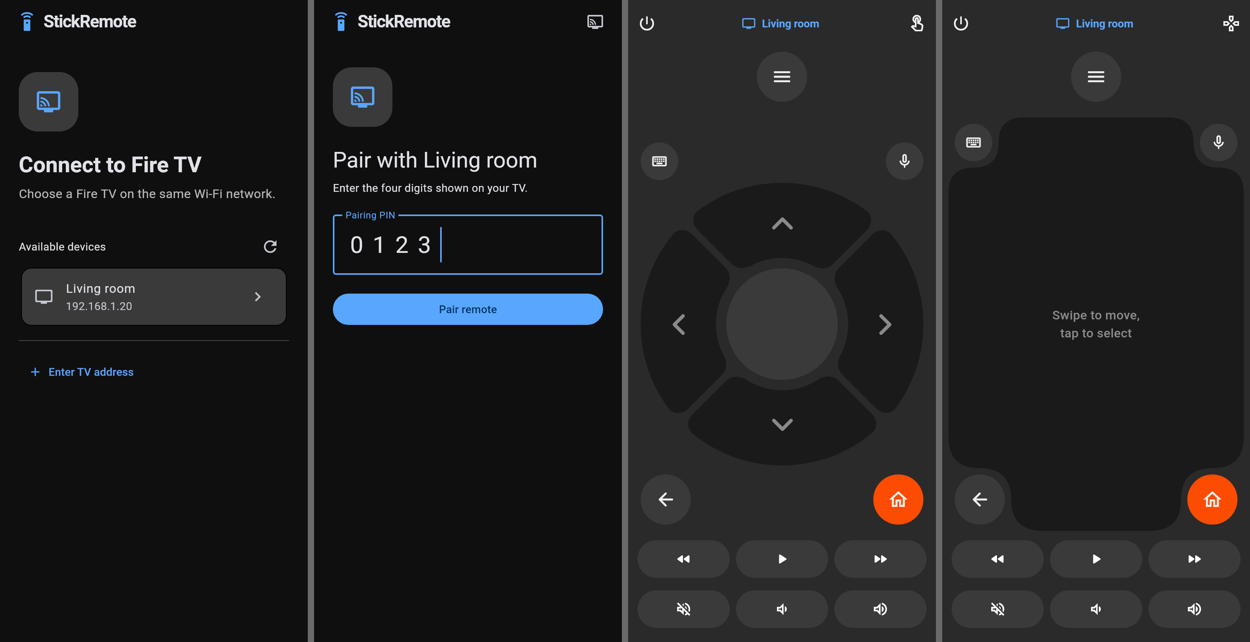
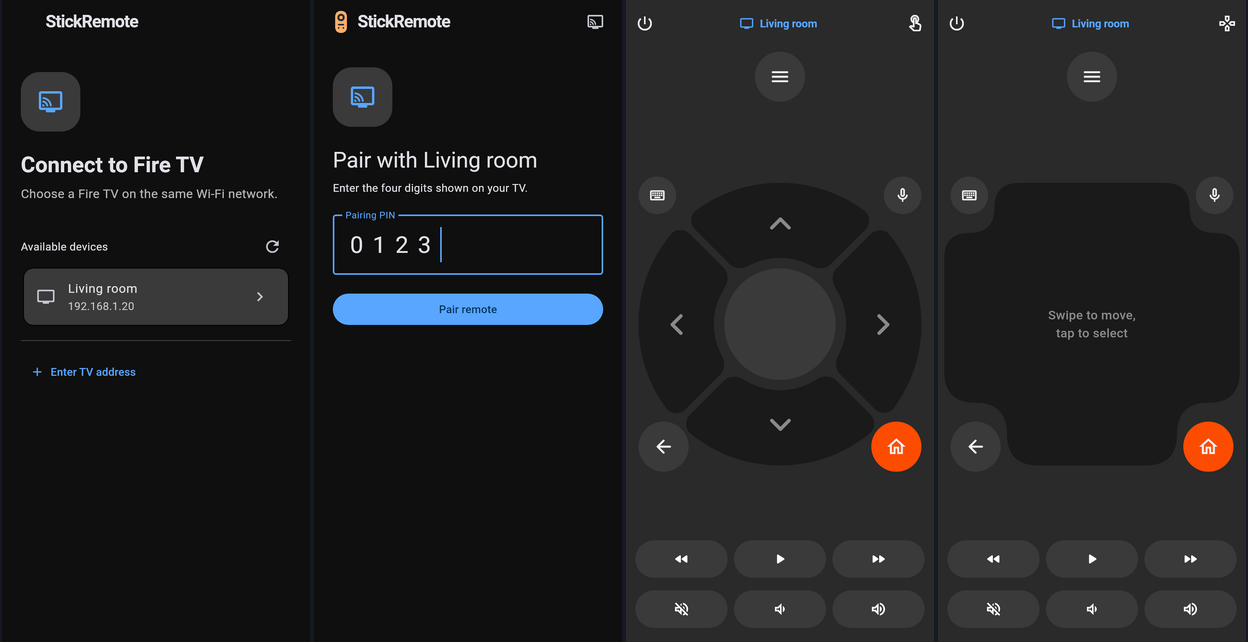
Fix repeat pairing prompts, align remote modes and brand Android release assets

diff --git a/lib/src/remote.dart b/lib/src/remote.dart
@@ -57,10 +57,8 @@ class _RemoteFaceState extends State<RemoteFace> with WidgetsBindingObserver {
         }
         _power = data['powerSupport'] != 'NotSupported';
       }
-    } on ReceiverError catch (error) {
-      if ([401, 403].contains(error.status)) _error(error);
     } on Exception {
-      // An unavailable properties API leaves volume support unknown.
+      // Some paired receivers deny this optional endpoint but accept commands.
     } finally {
       if (mounted) setState(() => _loadingCapabilities = false);
     }
@@ -350,7 +348,7 @@ class _RemoteFaceState extends State<RemoteFace> with WidgetsBindingObserver {
     );
   }
 
-  Widget _navigation(double size) {
+  Widget _navigation() {
     if (!_pad) {
       return Semantics(
         label: 'Touchpad. Swipe to move or tap to select.',
@@ -391,16 +389,11 @@ class _RemoteFaceState extends State<RemoteFace> with WidgetsBindingObserver {
         ),
       );
     }
-    return Center(
+    return FittedBox(
       child: SizedBox.square(
-        dimension: size,
-        child: FittedBox(
-          child: SizedBox.square(
-            dimension: 327,
-            child: Stack(
-              children: [for (final segment in padSegments) _segment(segment)],
-            ),
-          ),
+        dimension: 327,
+        child: Stack(
+          children: [for (final segment in padSegments) _segment(segment)],
         ),
       ),
     );
@@ -565,48 +558,56 @@ class _RemoteFaceState extends State<RemoteFace> with WidgetsBindingObserver {
               padding: const EdgeInsets.symmetric(horizontal: 8),
               child: SizedBox(
                 height: areaHeight,
-                child: Stack(
-                  fit: StackFit.expand,
-                  children: [
-                    _navigation(padSize),
-                    Positioned(
-                      left: 8,
-                      top: _pad ? 32 : 8,
-                      child: _round(
-                        'Keyboard',
-                        Icons.keyboard_outlined,
-                        _keyboard,
-                      ),
+                child: Center(
+                  child: SizedBox(
+                    width: double.infinity,
+                    height: math.min(areaHeight, padSize + 32),
+                    child: Stack(
+                      fit: StackFit.expand,
+                      children: [
+                        Center(
+                          child: SizedBox(
+                            width: double.infinity,
+                            height: padSize,
+                            child: _navigation(),
+                          ),
+                        ),
+                        Positioned(
+                          left: 8,
+                          top: 8,
+                          child: _round(
+                            'Keyboard',
+                            Icons.keyboard_outlined,
+                            _keyboard,
+                          ),
+                        ),
+                        Positioned(right: 8, top: 8, child: _microphone()),
+                        Positioned(
+                          left: 8,
+                          bottom: 8,
+                          child: _round(
+                            'Back',
+                            Icons.arrow_back_rounded,
+                            () => _send((tv) => tv.command('back')),
+                            size: 64,
+                            iconSize: 28,
+                          ),
+                        ),
+                        Positioned(
+                          right: 8,
+                          bottom: 8,
+                          child: _round(
+                            'Home',
+                            Icons.home_outlined,
+                            _home,
+                            size: 64,
+                            iconSize: 28,
+                            fill: homeOrange,
+                          ),
+                        ),
+                      ],
                     ),
-                    Positioned(
-                      right: 8,
-                      top: _pad ? 32 : 8,
-                      child: _microphone(),
-                    ),
-                    Positioned(
-                      left: 8,
-                      bottom: 8,
-                      child: _round(
-                        'Back',
-                        Icons.arrow_back_rounded,
-                        () => _send((tv) => tv.command('back')),
-                        size: 64,
-                        iconSize: 28,
-                      ),
-                    ),
-                    Positioned(
-                      right: 8,
-                      bottom: 8,
-                      child: _round(
-                        'Home',
-                        Icons.home_outlined,
-                        _home,
-                        size: 64,
-                        iconSize: 28,
-                        fill: homeOrange,
-                      ),
-                    ),
-                  ],
+                  ),
                 ),
               ),
             ),

diff --git a/test/widget_test.dart b/test/widget_test.dart
@@ -1,5 +1,6 @@
 import 'dart:convert';
 import 'package:flutter/material.dart';
+import 'package:flutter/services.dart';
 import 'package:flutter_test/flutter_test.dart';
 import 'package:stickremote/main.dart';
 import 'package:stickremote/src/discovery.dart';
@@ -78,6 +79,113 @@ void main() {
       expect(find.text('TV brand'), findsNothing);
     });
   }
+  testWidgets(
+    'PIN survives a connection error and a valid PIN opens the remote even when storage and properties fail',
+    (tester) async {
+      final messenger =
+          TestDefaultBinaryMessengerBinding.instance.defaultBinaryMessenger;
+      int displays = 0, verifies = 0;
+      messenger.setMockMethodCallHandler(bridge, (call) async {
+        if (call.method == 'read') return null;
+        if (call.method == 'write') throw PlatformException(code: 'storage');
+        final path = call.arguments['path'] as String;
+        if (path.endsWith('/pin/display')) {
+          displays++;
+        } else if (path.endsWith('/pin/verify')) {
+          verifies++;
+          final pin = jsonDecode(call.arguments['body'])['pin'];
+          if (pin == '1111') return {'status': 403, 'body': ''};
+          expect(pin, '0123');
+          if (verifies == 2) throw PlatformException(code: 'connection');
+          return {'status': 200, 'body': '{"description":"test-token"}'};
+        } else if (path.endsWith('/properties')) {
+          return {'status': 403, 'body': ''};
+        } else {
+          fail('Unexpected request: $path');
+        }
+        return {'status': 200, 'body': '{}'};
+      });
+      addTearDown(() => messenger.setMockMethodCallHandler(bridge, null));
+      await tester.pumpWidget(
+        StickRemoteApp(
+          home: DevicePage(
+            discovery: LocalDiscovery(),
+            receiverFor: AwakeReceiver.new,
+          ),
+        ),
+      );
+      await tester.pumpAndSettle();
+      await tester.tap(find.text('Living room'));
+      await tester.pumpAndSettle();
+      final input = find.byType(TextField);
+      await tester.enterText(input, '1111');
+      await tester.testTextInput.receiveAction(TextInputAction.done);
+      await tester.pumpAndSettle();
+      expect(tester.widget<TextField>(input).controller!.text, isEmpty);
+      await tester.enterText(input, '0123');
+      await tester.testTextInput.receiveAction(TextInputAction.done);
+      await tester.pumpAndSettle();
+      expect(tester.widget<TextField>(input).controller!.text, '0123');
+      await tester.tap(find.text('Pair remote'));
+      await tester.pumpAndSettle();
+      expect(find.bySemanticsLabel('Select'), findsOneWidget);
+      expect(find.textContaining('Could not save'), findsOneWidget);
+      expect(find.text('Volume setup'), findsOneWidget);
+      expect(displays, 1);
+      expect(verifies, 3);
+    },
+  );
+
+  for (final size in [const Size(360, 640), const Size(412, 915)]) {
+    testWidgets('Controls stay in place in both modes at ${size.width} dp', (
+      tester,
+    ) async {
+      tester.view.devicePixelRatio = 1;
+      tester.view.physicalSize = size;
+      addTearDown(tester.view.reset);
+      final messenger =
+          TestDefaultBinaryMessengerBinding.instance.defaultBinaryMessenger;
+      messenger.setMockMethodCallHandler(
+        bridge,
+        (_) async => {'status': 200, 'body': '{}'},
+      );
+      addTearDown(() => messenger.setMockMethodCallHandler(bridge, null));
+      await tester.pumpWidget(
+        StickRemoteApp(
+          home: Scaffold(
+            body: RemoteFace(
+              tv: Receiver(tv),
+              pairings: Pairings(),
+              onChoose: () {},
+              onUnauthorized: () {},
+            ),
+          ),
+        ),
+      );
+      await tester.pumpAndSettle();
+      final buttons = [
+        for (final name in ['TV power', 'Menu', 'Keyboard', 'Home', 'Back'])
+          find.byTooltip(name),
+        for (final name in ['Voice search', 'Play or pause', 'Volume setup'])
+          find.bySemanticsLabel(name),
+      ];
+      final rects = buttons.map(tester.getRect).toList();
+      final top = tester.getRect(find.bySemanticsLabel('Up')).top;
+      final bottom = tester.getRect(find.bySemanticsLabel('Down')).bottom;
+      await tester.tap(find.byTooltip('Use touchpad'));
+      await tester.pumpAndSettle();
+      final touch = tester.getRect(
+        find.bySemanticsLabel('Touchpad. Swipe to move or tap to select.'),
+      );
+      expect(touch.top, closeTo(top, 0.01));
+      expect(touch.bottom, closeTo(bottom, 0.01));
+      expect(buttons.map(tester.getRect).toList(), rects);
+      await tester.tap(find.byTooltip('Use directional pad'));
+      await tester.pumpAndSettle();
+      expect(buttons.map(tester.getRect).toList(), rects);
+    });
+  }
+
   testWidgets('discover, pair, control volume and reconnect after relaunch', (
     tester,
   ) async {

diff --git a/lib/main.dart b/lib/main.dart
@@ -117,6 +117,7 @@ class _DevicePageState extends State<DevicePage> {
   }
 
   Future<void> _connect(Stick s) async {
+    if (_page == _Page.connecting && _receiver != null) return;
     final id = ++_generation;
     unawaited(_search?.cancel());
     if (!current(id)) return;
@@ -137,8 +138,7 @@ class _DevicePageState extends State<DevicePage> {
         try {
           await tv.check();
           if (!current(id)) return;
-          await _pairings.remember(s, tv.token!);
-          if (current(id)) setState(() => _page = _Page.remote);
+          await _openPairedRemote(tv, id);
           return;
         } on ReceiverError catch (e) {
           if (e.status != 403 && e.status != 401) rethrow;
@@ -158,23 +158,43 @@ class _DevicePageState extends State<DevicePage> {
     }
   }
 
+  Future<void> _openPairedRemote(Receiver tv, int id) async {
+    var saved = true;
+    try {
+      await _pairings.remember(tv.stick, tv.token!);
+    } catch (_) {
+      saved = false;
+    }
+    if (!mounted || _generation != id) return;
+    setState(() => _page = _Page.remote);
+    if (!saved) {
+      ScaffoldMessenger.of(context).showSnackBar(
+        const SnackBar(
+          content: Text(
+            'Connected. Could not save this pairing on your phone.',
+          ),
+        ),
+      );
+    }
+  }
+
   Future<void> _verify() async {
-    if (_verifying || _pin.text.length != 4) return;
+    if (_page != _Page.pin || _verifying || _pin.text.length != 4) return;
     final tv = _receiver!, id = _generation;
     setState(() {
       _verifying = true;
       _message = null;
     });
     try {
-      final token = await tv.verify(_pin.text);
-      if (!current(id)) return;
-      await _pairings.remember(tv.stick, token);
-      if (current(id)) setState(() => _page = _Page.remote);
+      await tv.verify(_pin.text);
+      if (current(id)) await _openPairedRemote(tv, id);
     } catch (e) {
       if (current(id)) {
         setState(() {
-          _pin.clear();
-          _message = e is ReceiverError && [400, 401, 403].contains(e.status)
+          final rejected =
+              e is ReceiverError && [400, 401, 403].contains(e.status);
+          if (rejected) _pin.clear();
+          _message = rejected
               ? 'Check the four digits on your TV and try again.'
               : readableError(e);
         });

diff --git a/tool/render_brand_icons.py b/tool/render_brand_icons.py
@@ -1,4 +1,5 @@
 """Export StickRemote's vector master. Requires librsvg, PyGObject, Cairo and ImageMagick."""
+from copy import deepcopy
 import io
 import json
 import subprocess
@@ -46,7 +47,7 @@ def android_vectors(svg):
         lines = ['<vector xmlns:android="http://schemas.android.com/apk/res/android"',
                  '    android:width="108dp" android:height="108dp"',
                  '    android:viewportWidth="1024" android:viewportHeight="1024">',
-                 '    <group android:pivotX="512" android:pivotY="512" android:scaleX="0.75" android:scaleY="0.75">']
+                 '    <group android:pivotX="512" android:pivotY="512" android:scaleX="0.54" android:scaleY="0.54">']
         for color, path in paths:
             lines.extend([f'        <path android:fillColor="{color}" android:fillType="evenOdd"',
                           f'            android:pathData="{path}" />'])
@@ -59,8 +60,13 @@ def main():
     svg = ET.parse(MASTER).getroot()
     android_vectors(svg)
     full_icon = Rsvg.Handle.new_from_data(MASTER.read_bytes())
+    # Legacy launcher masks can crop the square bitmap as well.
+    legacy = deepcopy(svg)
+    for path in legacy.findall(f"{SVG}path"):
+        path.set("transform", "translate(512 512) scale(0.8) translate(-512 -512)")
+    legacy_icon = Rsvg.Handle.new_from_data(ET.tostring(legacy))
     for density, size in (("mdpi", 48), ("hdpi", 72), ("xhdpi", 96), ("xxhdpi", 144), ("xxxhdpi", 192)):
-        render(full_icon, ANDROID / f"mipmap-{density}/ic_launcher.png", size, size, opaque=True)
+        render(legacy_icon, ANDROID / f"mipmap-{density}/ic_launcher.png", size, size, opaque=True)
     app_icons = IOS / "AppIcon.appiconset"
     for entry in json.loads((app_icons / "Contents.json").read_text())["images"]:
         size = round(float(entry["size"].split("x")[0]) * int(entry["scale"][0]))

diff --git a/README.md b/README.md
@@ -4,9 +4,9 @@
 
 Control your Fire TV over Wi-Fi without an Amazon sign-in.
 
-[Download for Android (ARM64)](https://github.com/bipinkrish/StickRemote/releases/latest/download/app-arm64-v8a-release.apk) · [All APKs](https://github.com/bipinkrish/StickRemote/releases/latest)
+[Download for Android (ARM64)](https://github.com/bipinkrish/StickRemote/releases/latest/download/StickRemote-arm64-v8a.apk) · [All APKs](https://github.com/bipinkrish/StickRemote/releases/latest)
 
-Choose ARM64 for most Android phones, `armeabi-v7a` for a 32-bit ARM phone, or `x86_64` for an Intel or AMD emulator. Install one APK on your phone. Version 1.0.0 requires Android 7.0 or later and uses the project's debug signing key.
+Choose ARM64 for most Android phones, `armeabi-v7a` for a 32-bit ARM phone, or `x86_64` for an Intel or AMD emulator. Install one APK on your phone. This release requires Android 7.0 or later and uses the project's debug signing key.
 
 ## Pair your Fire TV
 
@@ -25,6 +25,8 @@ The remote includes a directional pad, swipe pad, Back, Home, Menu, playback, ke
 ## Run from source
 
 Use `flutter pub get`, then `flutter run` on a phone. The package and bundle identifier is `io.github.bipinkrish.stickremote`. Run `flutter test` for the simulated pairing and remote-control checks.
+
+Build the split Android APKs with `bash tool/build_apks.sh`. The script writes the release assets to `build/releases/`.
 
 On iOS, open the Runner workspace in Xcode and select your development team. Automatic SSDP discovery on a physical iPhone requires a provisioning profile with the multicast entitlement. The project declares it in `ios/Runner/Runner.entitlements`. Allow the Local Network prompt. If multicast is blocked on the Wi-Fi network, use **Enter TV address**. Find the address in the Fire TV network settings. [Apple’s local-network guidance](https://developer.apple.com/documentation/technotes/tn3179-understanding-local-network-privacy)
 
